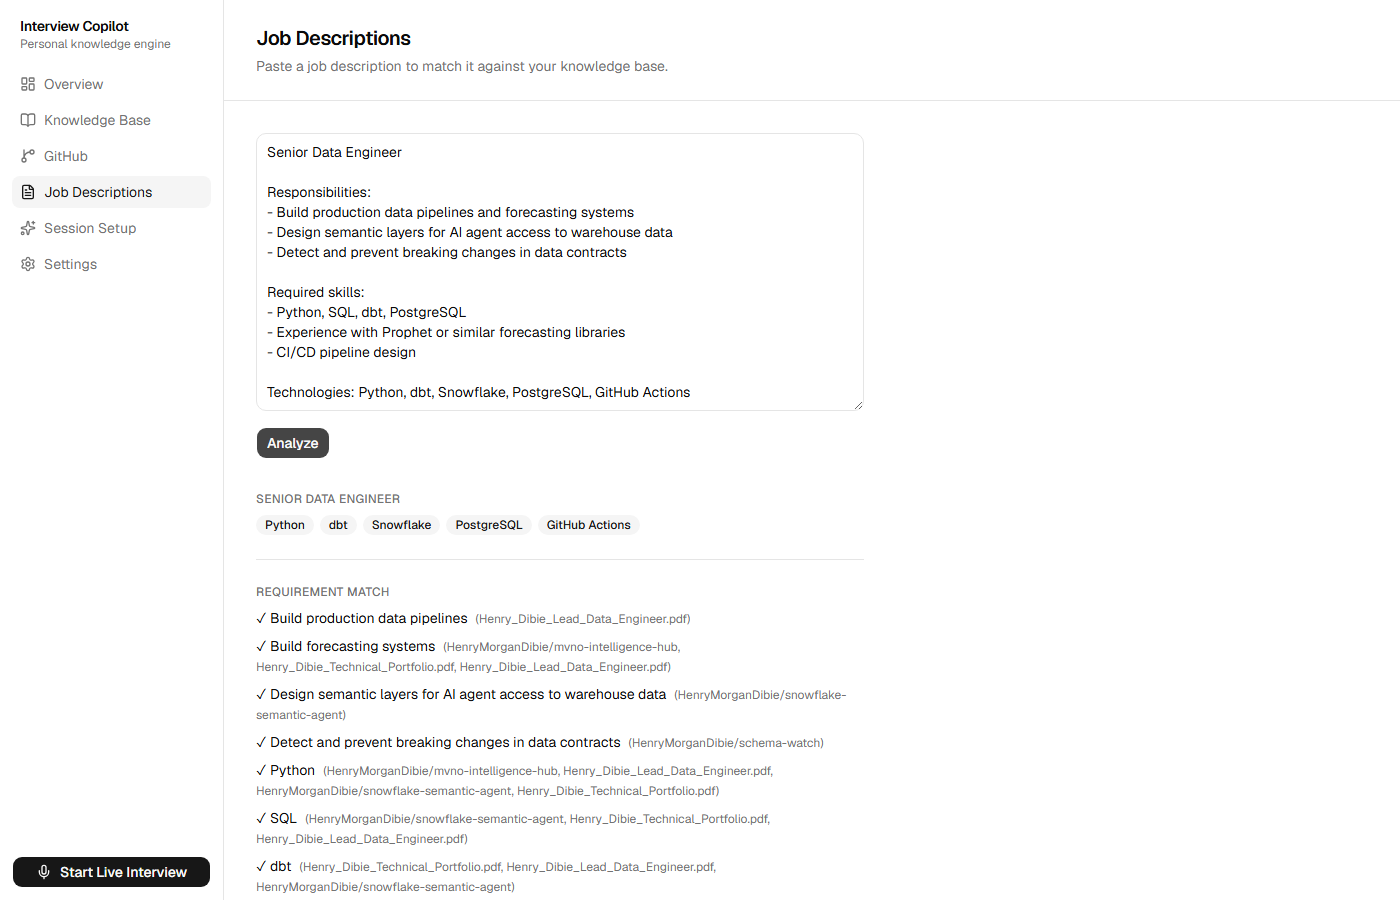
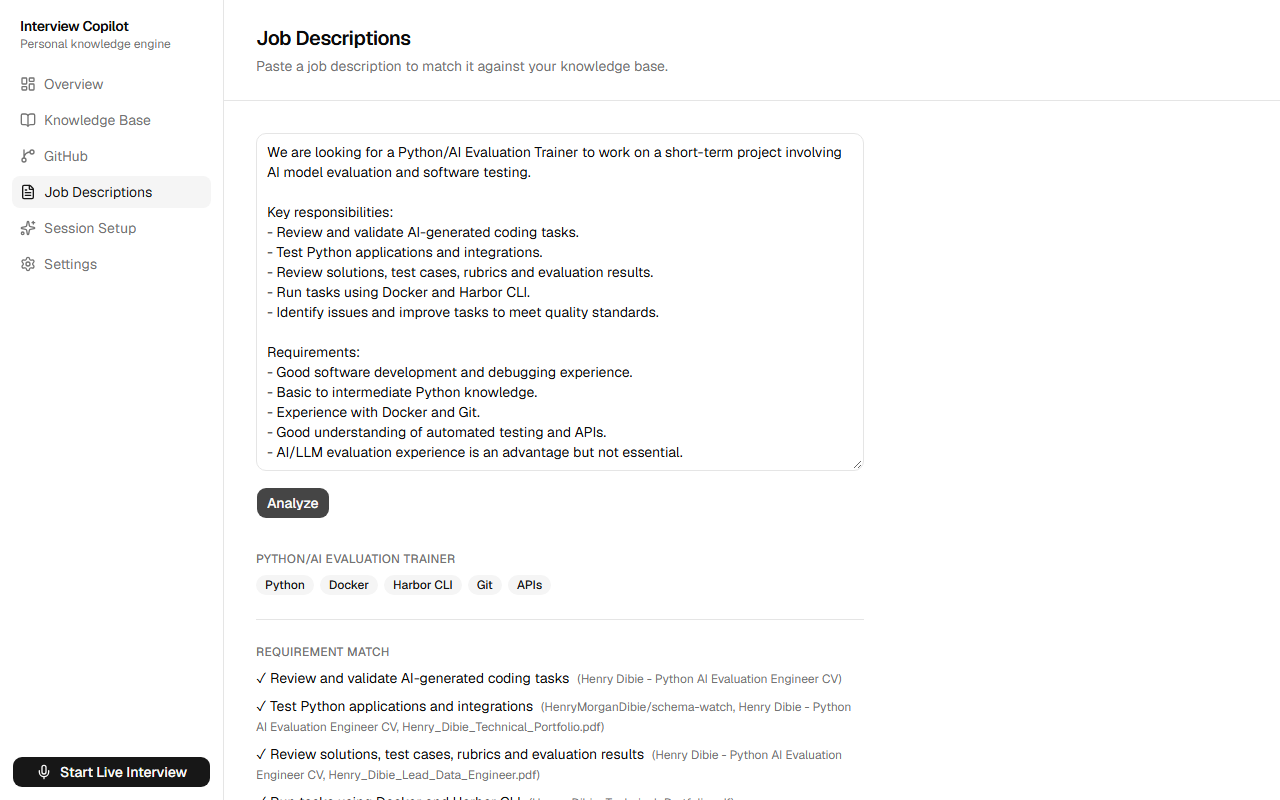
Reposition README, document platform support, add a real demo GIF
Lead with "never fabricates experience" as the actual headline claim
instead of "real-time answers" -- it's the more defensible, more unusual
positioning, and it's the thing actually enforced in code and checked by
the evaluation harness.

New Platform support section: honest about being Windows-only today (the
WASAPI loopback capture is native Rust against Windows' own audio API) and
what porting to macOS/Linux would actually take, rather than staying silent
on it or half-promising something unbuilt.

Replaced the static hero screenshot with a real demo GIF (knowledge base
with real CVs/repos -> a real job posting matched against it, every
requirement hit and sourced -> a live interview answer streaming in) built
from actual app screenshots, not mockups. Refreshed the knowledge-base and
job-descriptions screenshots to match -- ingested a new tailored CV and ran
a real "Python/AI Evaluation Trainer" posting through the app for this.

Also folds in the fresh evaluation numbers and the eval harness's own
re-runnable command, updates the Setup section for the now-zero-config
GitHub connect flow, and removes stale references to fixes that have since
landed and been verified.

Changed region(s): [[0.0, 0.1562, 0.6562, 1.0], [0.0, 0.0, 0.125, 0.3438], [0.1875, 0.0312, 0.5312, 0.0938]]

diff --git a/README.md b/README.md
@@ -1,12 +1,14 @@
 # Interview Copilot
 
-A local-first, grounded AI system for **interview preparation and simulated interview practice**: it listens to a mock or explicitly-permitted interview, detects when the interviewer has asked a real question, retrieves your strongest relevant evidence from your own CV and GitHub projects, and generates a concise answer grounded in what you've actually done — never fabricating experience you don't have.
+**It never fabricates experience you don't have.** That's the actual engineering constraint this project is built around, enforced in code (see [grounding policy](#grounding-policy)) and checked against a real evaluation harness (see [evaluation](#evaluation)) — not just a prompt asking nicely.
+
+Interview Copilot is a local-first AI system for **interview preparation and simulated interview practice**: it listens to a mock or explicitly-permitted interview, detects when the interviewer has asked a real question, retrieves your strongest relevant evidence from your own CV and GitHub projects, and generates a concise answer grounded in what you've actually done.
 
 [![Download for Windows](https://img.shields.io/badge/Download-Windows-0078D6?style=for-the-badge&logo=windows&logoColor=white)](https://github.com/HenryMorganDibie/interview-copilot/releases/latest)
 
-![Live interview screen, mid-answer](docs/screenshots/live-interview.png)
+![Demo: knowledge base, job description matching, and a live interview answer](docs/screenshots/demo.gif)
 
-*Live session from a full 7-question mock-interview rehearsal (real interviewer questions, spoken aloud, for an actual role the candidate was preparing for): "Tell me about yourself" transcribed correctly, answered from real CV evidence. Three earlier versions of this screenshot showed the interviewer's audio garbled, hallucinated, or missing its first words entirely — real bugs, not a feature — see [below](#interviewer-audio-accuracy-and-latency) for the full account of what was actually wrong and how each was found.*
+*The full loop, all real app, real data, real output — no mockups: (1) the knowledge base with Henry's real CVs and GitHub repos ingested, (2) a real job posting ("Python/AI Evaluation Trainer") pasted in and matched against that knowledge base — every requirement hit, with the actual source cited, (3) a live interview answer streaming in, grounded in real CV evidence. That live-session frame is from a full 7-question mock-interview rehearsal for an actual role; three earlier versions of it showed the interviewer's audio garbled, hallucinated, or missing its first words entirely — real bugs, not a feature — see [below](#interviewer-audio-accuracy-and-latency) for the full account of what was actually wrong and how each was found.*
 
 ```mermaid
 flowchart TD
@@ -60,8 +62,9 @@ This is enforced in code: `packages/knowledge`'s evidence retrieval and `apps/ap
 ## How it works
 
 1. **Prep, before the interview**: upload your CV, connect GitHub and select repos to ingest, optionally paste a job description for requirement matching and likely-question prep.
-2. **During the interview**: click Start Listening. Your microphone and your system's audio output (whatever the interviewer's voice is playing through — Zoom, Google Meet, anything) are both transcribed in real time.
-3. When the interviewer finishes a question (detected via a debounce + LLM classification, not fired on every audio fragment), the app retrieves your most relevant real evidence and streams a grounded, spoken-length answer for you to read.
+2. **Session setup**: pick a response mode — **Direct** (a full 3-6 sentence spoken answer), **Talking Points** (3-5 short bullet fragments to speak from in your own words), or **Follow-up** (a terse 1-2 sentence answer for a quick clarifying question).
+3. **During the interview**: click Start Listening. Your microphone and your system's audio output (whatever the interviewer's voice is playing through — Zoom, Google Meet, anything) are both transcribed in real time.
+4. When the interviewer finishes a question (detected via a debounce + LLM classification, not fired on every audio fragment), the app retrieves your most relevant real evidence and streams a grounded answer, in the response mode you picked, for you to read.
 
 ## Screenshots
 
@@ -69,24 +72,28 @@ This is enforced in code: `packages/knowledge`'s evidence retrieval and `apps/ap
 |---|---|
 | ![Knowledge base with real CVs and repos](docs/screenshots/knowledge-base.png) | ![Connected GitHub account with repo list](docs/screenshots/github.png) |
 
-| Job description matching |
-|---|
-| ![Real job description matched against the knowledge base, showing requirement hits with source attribution](docs/screenshots/job-descriptions.png) |
+| Job description matching | Live interview |
+|---|---|
+| ![Real job description matched against the knowledge base, showing requirement hits with source attribution](docs/screenshots/job-descriptions.png) | ![Live interview screen, mid-answer](docs/screenshots/live-interview.png) |
 
 ## Evaluation
 
-Measured against the real running app (not fabricated numbers) — see [`docs/eval/RESULTS.md`](docs/eval/RESULTS.md) for the full writeup, methodology, and the two real bugs it caught before they shipped.
+Measured against the real running app (not fabricated numbers) — see [`docs/eval/RESULTS.md`](docs/eval/RESULTS.md) for the full writeup, methodology, and every real bug it's caught before shipping. The harness itself (`docs/eval/run-eval.mjs`) is part of this repo, not a private benchmark — run it against your own knowledge base and question sets to check these claims yourself:
+
+```bash
+node docs/eval/run-eval.mjs docs/eval/eval-set.json docs/eval/detection-set.json docs/eval/results.json
+```
 
 | Metric | Result |
 |---|---:|
-| Question detection accuracy | 91.7%–100% across 3 runs |
-| Retrieval hit rate (known-source questions) | 88.9%–100% across runs |
+| Question detection accuracy | 100% (2026-09-05 re-run, post latency fix) |
+| Retrieval hit rate (known-source questions) | 88.9% (2026-09-05 re-run) |
 | No-evidence questions correctly declined (not fabricated) | 3/3 |
 | Web-research questions with zero misattributed personal sources | 2/2 (after fix) |
-| First-token latency (mean / median / P90) | 4.3s / 3.5s / 6.4s |
-| Full-answer latency (mean / median / P90) | 6.0s / 5.8s / 9.5s |
+| First-token latency (mean / median / P90) | 1.6s / 1.5s / 2.5s |
+| Full-answer latency (mean / median / P90) | 2.3s / 2.3s / 3.2s |
 
-The table above is the last full 3-run harness pass and predates the fixes described directly below — a fresh full pass with the new pipeline hasn't been run yet, so treat the numbers as the "before" baseline, not current behavior.
+These are the current numbers, re-run 2026-09-05 against the fixed live pipeline (see [below](#interviewer-audio-accuracy-and-latency)) — first-token latency now comfortably clears the sub-2s target. That same re-run also caught a real bug in the fix it was validating (the live router had no fallback left once Groq's free-tier rate limit was hit); see [`docs/eval/RESULTS.md`](docs/eval/RESULTS.md#2026-09-05-re-run-post-interviewer-audio-accuracy-and-latency-fix) for the full account, including why this is 2 passes rather than the original 3-pass methodology.
 
 ## Interviewer-audio accuracy and latency
 
@@ -96,12 +103,12 @@ The transcription/latency numbers above motivated a real rework, not just tuning
 - **Transcription model**: switched from `whisper-large-v3-turbo` to `whisper-large-v3` (Groq) — the turbo variant trades accuracy for speed, and domain jargon/project names were exactly what it lost. A rolling context window of the session's own recent transcript is also passed as Whisper's `prompt` field, so a project name transcribed correctly once biases later segments toward getting it right again.
 - **Hallucination filtering**: Whisper is well documented to produce fluent, confident, completely fabricated sentences on near-silent audio (real examples hit during testing: "Subtitles by the Amara.org community", "I think that no English"). `packages/transcription/src/groqWhisperClient.ts` now requests `verbose_json` and drops any result where Whisper's own `no_speech_prob`/`avg_logprob` signal low confidence, instead of trusting every response.
 - **The actual root cause of the garbled interviewer audio**: none of the above were it. Live testing (playing a known phrase through the loopback capture and inspecting the literal bytes it captured) found the real bug — `read_from_device_to_deque` was delivering only ~1/5 of the expected byte rate, silently dropping roughly 80% of the audio before it ever reached transcription. A 200ms polling buffer was the cause; shrinking it to 40ms (with a 10ms poll interval) restored real-time throughput. This had nothing to do with VAD, the model, or chunking — all of that was operating correctly on audio that was already missing most of its content. Documented in detail in `loopback.rs` since the exact WASAPI mechanism wasn't fully root-caused, only empirically fixed and verified.
-- **Live-path routing**: `/api/answer` and `/api/analyze-question` now use a Groq-only router with no local-model attempt (`includeLocalPool: false` in `createDefaultRouter`) — the local Ollama pool's cold-load time was the dominant tail latency in the table above, which is acceptable for prep-time generation (still local-first, to stay free) but not for a candidate visibly waiting on a live answer. Evidence retrieval and web research also now run concurrently instead of sequentially when a question needs both.
+- **Live-path routing**: `/api/answer` and `/api/analyze-question` now use a Groq-first router (`includeLocalPool: "last"` in `createDefaultRouter`) — the local Ollama pool's cold-load time was the dominant tail latency in the table above, which is acceptable for prep-time generation (still local-first, to stay free) but not for a candidate visibly waiting on a live answer, so it's skipped for the common case. It stays wired in as a genuine last resort rather than dropped entirely, though: a 2026-09-05 eval re-run caught Groq's free-tier rate limit getting exhausted mid-run with nothing left to fall back to, silently returning "Unable to generate answer." for the rest of that window — see [evaluation](#evaluation) for the full account. Evidence retrieval and web research also now run concurrently instead of sequentially when a question needs both.
 - **Grounding on the actual role**: the job description pasted on the Job Descriptions page is now persisted (`apps/desktop/src/lib/settings.ts`) and threaded into the live session's question analysis, answer generation, and transcription context — previously it lived only in that page's component state and never reached a live session at all.
 - **Off-topic questions**: the answer prompt now explicitly requires the model to give the most useful honest answer available (reasoning from general knowledge, or the closest adjacent thing the evidence does support) rather than a bare "I don't have experience with that," so a tangential question still gets something substantive rather than a dead end.
 - **Speech-onset clipping**: even after the throughput fix, a two-clause question played after a period of silence ("Have you ever reviewed AI-generated code before? What did that involve?") lost its entire first clause — reproduced in isolation, not a fluke. RMS-based VAD doesn't notice speech has started until a frame crosses the threshold, and a soft onset means the loudest part of the first syllable is often already gone by then. Fixed with a 300ms rolling pre-roll buffer (`loopback.rs`): audio from just before the detected onset is prepended to the segment, so the moment VAD "notices" speech isn't the same as where the segment starts.
 
-Verified across two rounds, both through the actual installed desktop app (not just the API in isolation, and not just the dev build — a real release installer built and installed for this): first, a single question ("Why did you choose SFTP over a message queue for ingesting subscriber data in the MVNO intelligence hub?") transcribed **word-for-word correctly**. Then a full 7-question mock-interview rehearsal — real questions spoken aloud for an actual role, starting with "Tell me about yourself" — surfaced the onset-clipping bug above, which was fixed and re-verified the same way. Full-answer latency on repeat live-path calls dropped from a measured 6.0s mean/9.5s P90 to ~1.9–2.0s. Not yet re-run through the full 3-pass harness — that's the next thing to do before updating the table itself.
+Verified across two rounds, both through the actual installed desktop app (not just the API in isolation, and not just the dev build — a real release installer built and installed for this): first, a single question ("Why did you choose SFTP over a message queue for ingesting subscriber data in the MVNO intelligence hub?") transcribed **word-for-word correctly**. Then a full 7-question mock-interview rehearsal — real questions spoken aloud for an actual role, starting with "Tell me about yourself" — surfaced the onset-clipping bug above, which was fixed and re-verified the same way. Full-answer latency on repeat live-path calls dropped from a measured 6.0s mean/9.5s P90 to ~1.9–2.0s, since confirmed by the full harness re-run in [evaluation](#evaluation) (2.3s mean / 3.2s P90 full-answer).
 
 Still true regardless of these fixes: no ASR system is 100% accurate for every accent/call platform, and a same-room speaker+mic test rig (used for the testing above, since it's what's available) will always show some acoustic cross-talk — words spoken through this machine's own speakers get picked up by its own microphone too, landing on the "You" transcript alongside the correct "Interviewer" transcript. That's a property of testing solo on one machine, not a speaker-labeling bug — real usage on a call (headphones or not) doesn't have this specific confound, since the interviewer's voice never reaches your microphone at all.
 
@@ -116,6 +123,12 @@ This is a **single-user, local-first desktop tool**, not a multi-tenant service:
 - The GitHub token is held in an in-memory process variable, not persisted to disk or a database — process-local by design for a tool one person runs on their own machine.
 - No candidate data is sent to any provider beyond what's needed for that specific request (transcription, embeddings, generation).
 
+## Platform support
+
+**Windows only, today.** The interviewer-audio capture path (`apps/desktop/src-tauri/src/loopback.rs`) is native Rust against WASAPI, Windows' own audio API — that's a deliberate choice (it's what let this project catch and fix the real capture/latency bugs documented [below](#interviewer-audio-accuracy-and-latency) at the OS-audio level, not a black box), but it means the loopback capture, and the installer (`.msi`/NSIS `.exe`), are Windows-specific. Mic capture and everything else (knowledge base, retrieval, LLM router, job matching) has no OS dependency and would port cleanly.
+
+The path to macOS/Linux support is a second native loopback backend, not a rewrite of the rest of the app: macOS via `ScreenCaptureKit` (system-audio capture, macOS 13+) or a virtual audio device (e.g. BlackHole) behind the same `SystemAudioCaptureProvider` interface already used on the frontend; Linux via PipeWire/PulseAudio monitor sources. Not attempted here — this needs real macOS/Linux hardware to build and verify against (this project's own standard, demonstrated throughout this README, is "verified for real" rather than shipping untested platform code), which wasn't available when this was written. A contribution implementing either is welcome.
+
 ## Status
 
 Actively in development. Working end-to-end, verified against the real running app (not just typechecked):
@@ -124,13 +137,13 @@ Actively in development. Working end-to-end, verified against the real running a
 - Mic capture + native Windows (WASAPI) system-audio loopback capture, both transcribed via Groq Whisper
 - Provider-agnostic LLM router with automatic failover (benchmarked local Ollama pool → Groq → optional Anthropic)
 - Knowledge base: multi-file CV/document upload, chunking, local embeddings, Postgres/pgvector hybrid (semantic + keyword) retrieval
-- GitHub repo ingestion (PAT or OAuth Device Flow), multi-repo bulk ingestion, README + structured project-profile extraction
+- GitHub repo ingestion (OAuth Device Flow by default, zero setup — or a pasted personal access token), multi-repo bulk ingestion, README + structured project-profile extraction
 - Job description parsing, hybrid requirement matching, strongest-story ranking, weak-area detection, likely questions, STAR story drafts
 - Live session loop: question detection (debounced, noise-filtered) → grounded streaming answer
-- Configurable response modes (direct / talking points / follow-up)
+- Configurable response modes (direct / talking points / follow-up), each visible in the Session Setup page so it's clear what you're choosing
 - Web research (Tavily), gated to only current-info questions
 
-Known gaps: the live-pipeline latency/accuracy numbers in [Evaluation](#evaluation) predate the fixes in [Interviewer audio accuracy and latency](#interviewer-audio-accuracy-and-latency) and need a fresh harness run. Same-room speaker+mic test rigs still add acoustic cross-talk that headphones avoid entirely — that's a physical setup issue, not something software fixes. The OAuth Device Flow connect UI exists but a personal access token is the primary path today.
+Known gaps: same-room speaker+mic test rigs still add acoustic cross-talk that headphones avoid entirely — that's a physical setup issue, not something software fixes. Windows-only today — see [Platform support](#platform-support).
 
 ## Project structure
 
@@ -143,7 +156,7 @@ packages/
   ai/         LLM provider abstraction + router (Ollama/Groq/Anthropic)
   knowledge/  Document parsing, chunking, embeddings, retrieval, job matching
   database/   Postgres/pgvector client
-  github/     GitHub ingestion (PAT or OAuth Device Flow)
+  github/     GitHub ingestion (OAuth Device Flow or PAT)
   search/     Web research provider abstraction
   interview/  Live session orchestrator (question detection + answer loop)
   transcription/  Speech-to-text client (Groq Whisper)
@@ -167,6 +180,8 @@ docker compose -f infra/docker-compose.yml up -d
 docker exec -i interview-copilot-postgres psql -U interview_copilot -d interview_copilot < infra/schema.sql
 ollama pull all-minilm          # embeddings
 ```
+
+GitHub connection works with zero extra setup: click "Connect GitHub" in the app and approve via OAuth Device Flow (it authorizes against this project's own public OAuth App). Prefer to skip the browser step? Paste a personal access token instead, either in `.env` (`GITHUB_TOKEN`) or directly in the GitHub page's UI.
 
 Run the backend and frontend in separate terminals:
 
